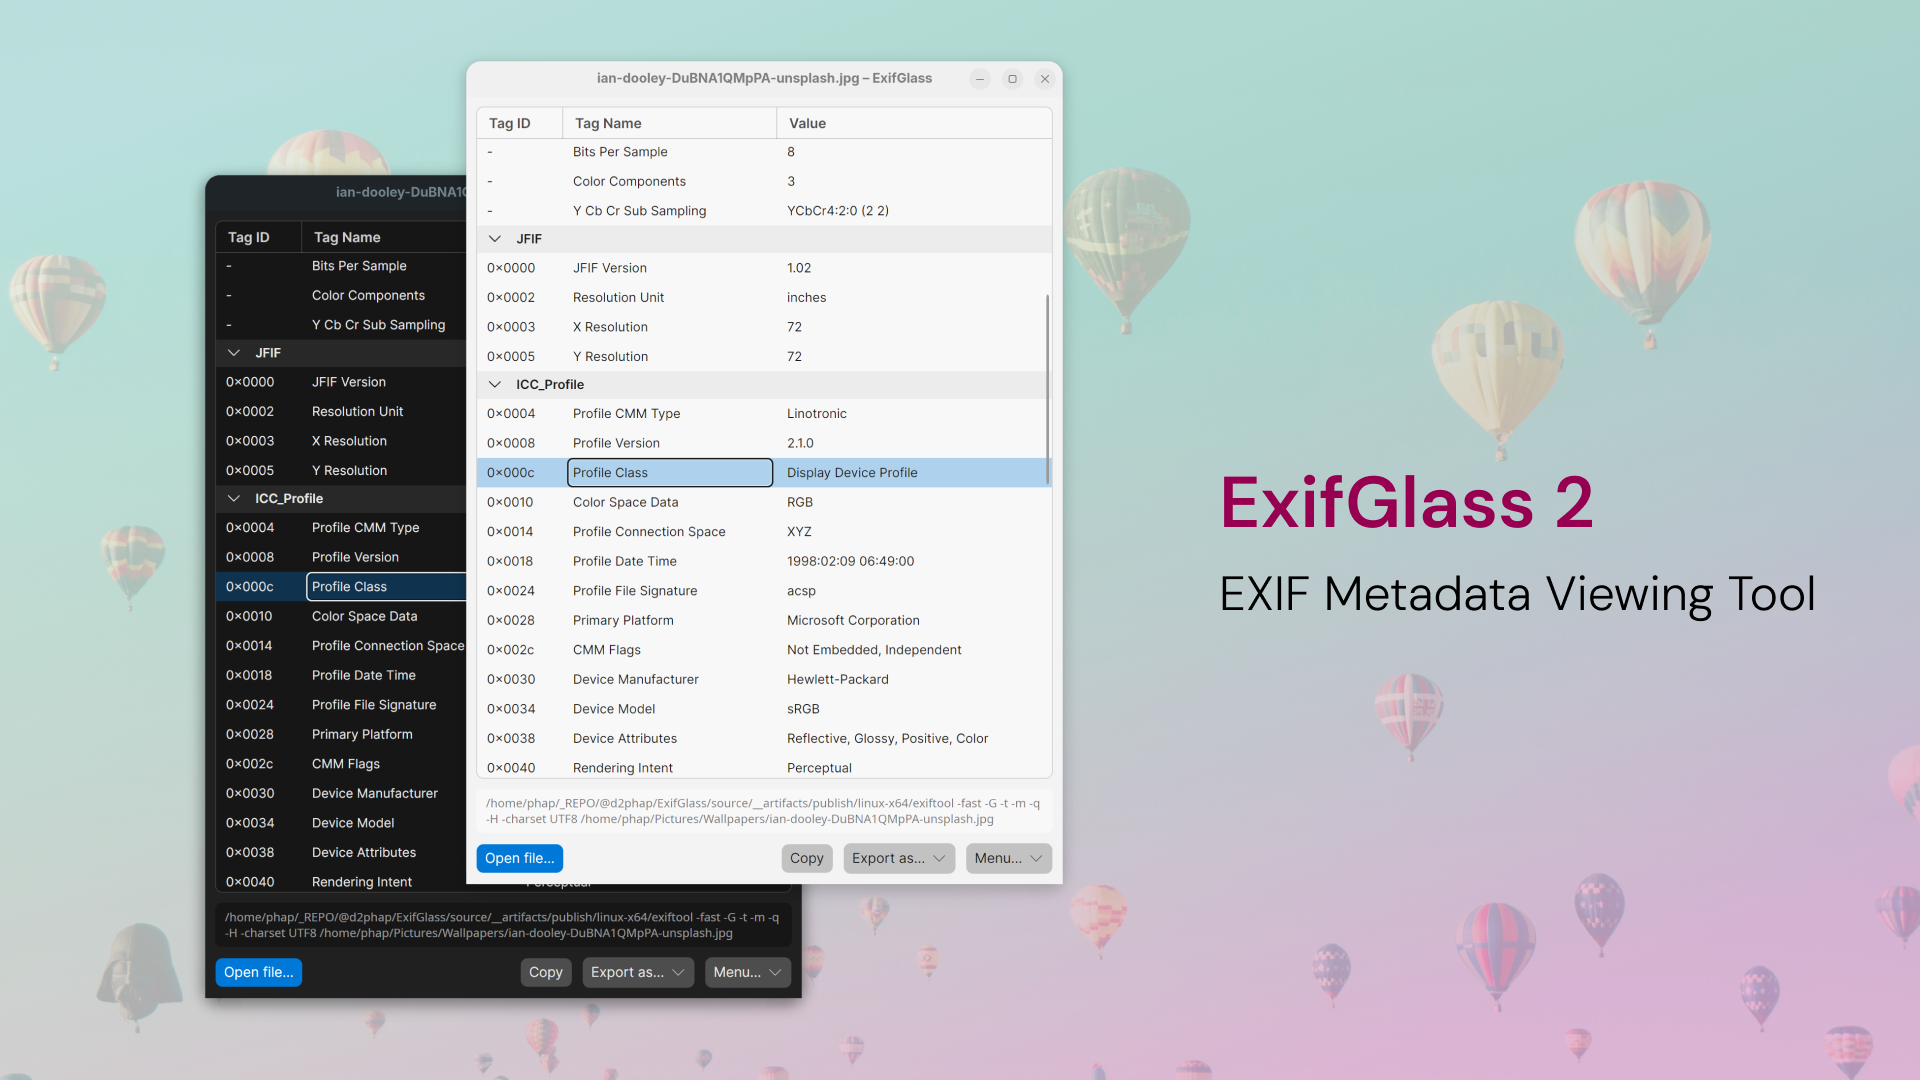
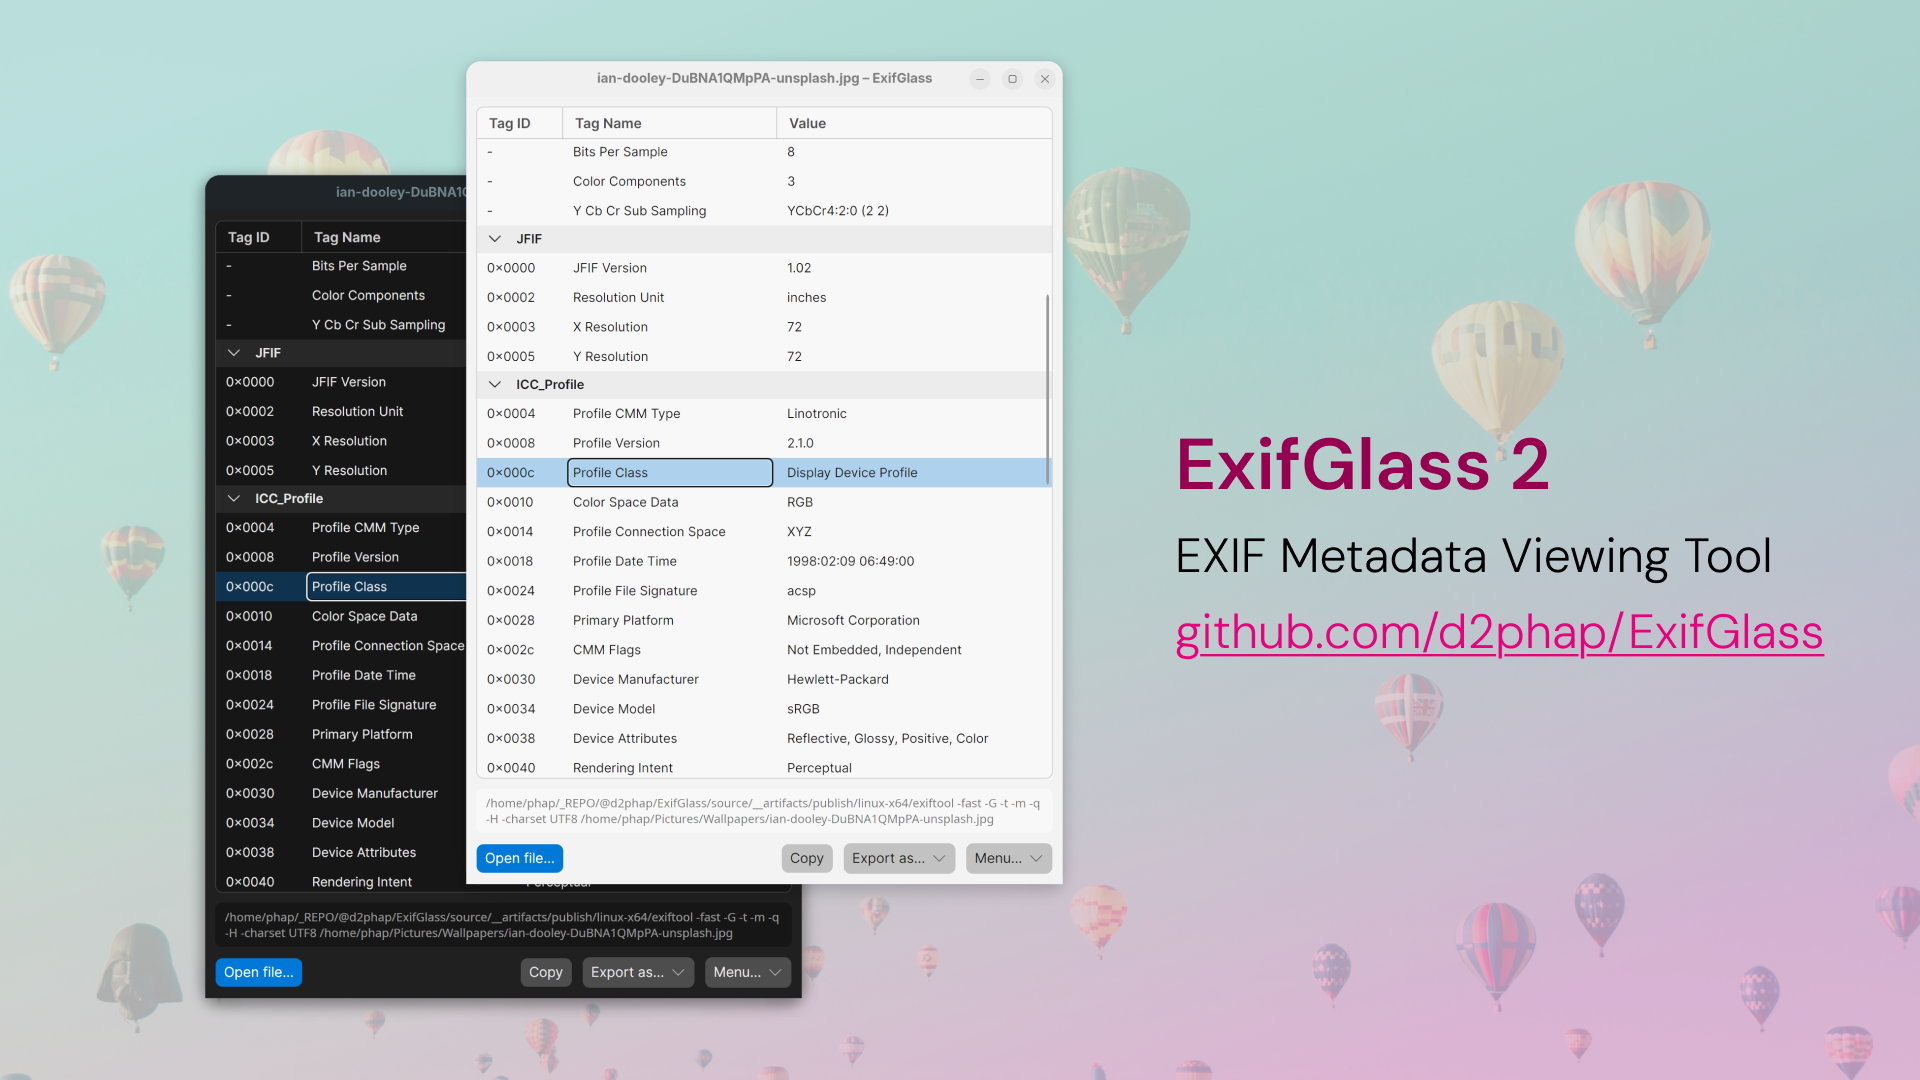
deleted old assets, updated ReadMe

Changed region(s): [[0.5938, 0.3972, 0.9688, 0.6111]]

diff --git a/README.md b/README.md
@@ -1,7 +1,7 @@
 ExifGlass - EXIF Metadata Viewing Tool
 ===
 
-ExifGlass is an EXIF metadata viewing tool, designed to work seamlessly with [ImageGlass 9](https://imageglass.org), but can also be used as a standalone software on your computer. To use ExifGlass, you need to have [ExifTool by Phil Harvey](https://exiftool.org) installed on your system.
+ExifGlass is an EXIF metadata viewing tool, designed to work seamlessly with [ImageGlass - A Fast, Seamless Photo Viewer](https://imageglass.org), but can also be used as a standalone software on your computer. To use ExifGlass, you need to have [ExifTool by Phil Harvey](https://exiftool.org) installed on your system.
 
 With ExifGlass, you can easily access a comprehensive overview of the technical details associated with your images, including camera settings, location data, and more. This tool is particularly useful for professional photographers or anyone interested in the technical aspects of digital photography. Whether you use ExifGlass as a standalone software or in conjunction with ImageGlass, it provides a convenient and efficient way to view and manage the metadata associated with your images.
 
@@ -18,14 +18,14 @@ You can download ExifGlass for free. To support the development of ExifGlass and
 
 
 <br/>
-<img src="https://github.com/d2phap/ExifGlass/assets/3154213/d2fc38fd-043c-46fd-bfb0-2cba006c3b1a" width="600" />
+<img src="https://raw.githubusercontent.com/d2phap/ExifGlass/refs/heads/main/source/__assets/linux/screenshots/eg_flatpak_2.png" />
 
 
 ## ExifGlass features
 | Feature | Free version | [ExifGlass Store](https://apps.microsoft.com/detail/9MX8S9HZ57W8?launch=true&cid=github_readme&mode=full) | 
 | -- | -- | -- |
 | Reads EXIF metadata | ✅ | ✅ |
-| Seamlessly works with [ImageGlass 9](https://imageglass.org) | ✅ | ✅ |
+| Seamlessly works with [ImageGlass](https://imageglass.org) | ✅ | ✅ |
 | Drag-n-drop file to view metadata | ✅ | ✅ |
 | Copy metadata | ✅ | ✅ |
 | Export as Text, JSON, CSV | ✅ | ✅ |
@@ -37,7 +37,7 @@ You can download ExifGlass for free. To support the development of ExifGlass and
 
 
 ## Configure ExifGlass
-ExifGlass comes with a specific version of `exiftool.exe` file. If you want to use a newer ExifTool release, follow these steps:
+ExifGlass comes with a specific version of `exiftool` file. If you want to use a newer ExifTool release, follow these steps:
 1. Download [ExifTool by Phil Harvey](https://exiftool.org). You can also use the [ExifTool Windows Installer](https://oliverbetz.de/pages/Artikel/ExifTool-for-Windows#toc-3) if you prefer, which will automatically register the executable file of ExifTool on your system. ExifGlass can detect it automatically.
 2. If you downloaded the ZIP file, extract its contents into a folder, rename `exiftool(-k).exe` to `exiftool.exe`.
 3. Open ExifGlass Settings (press <kbd>Ctrl+,</kbd>) and go to "Executable path". Locate the `exiftool.exe` file that you extracted in step 2.
@@ -51,8 +51,9 @@ Please refer to [ImageGlass Docs / ImageGlass tools](https://imageglass.org/docs
 
 
 ## Build ExifGlass from source code
-- .NET 9.0 and Visual Studio 2022
-- Add [ImageGlass.Tools](https://www.nuget.org/packages/ImageGlass.Tools) package.
+- .NET 10.0 and Visual Studio 2022
+- Add [ImageGlass.SDK](https://www.nuget.org/packages/ImageGlass.SDK) package (for ImageGlass 10).
+- Add [ImageGlass.Tools](https://www.nuget.org/packages/ImageGlass.Tools) package (for ImageGlass 9).
 
 
 ## License